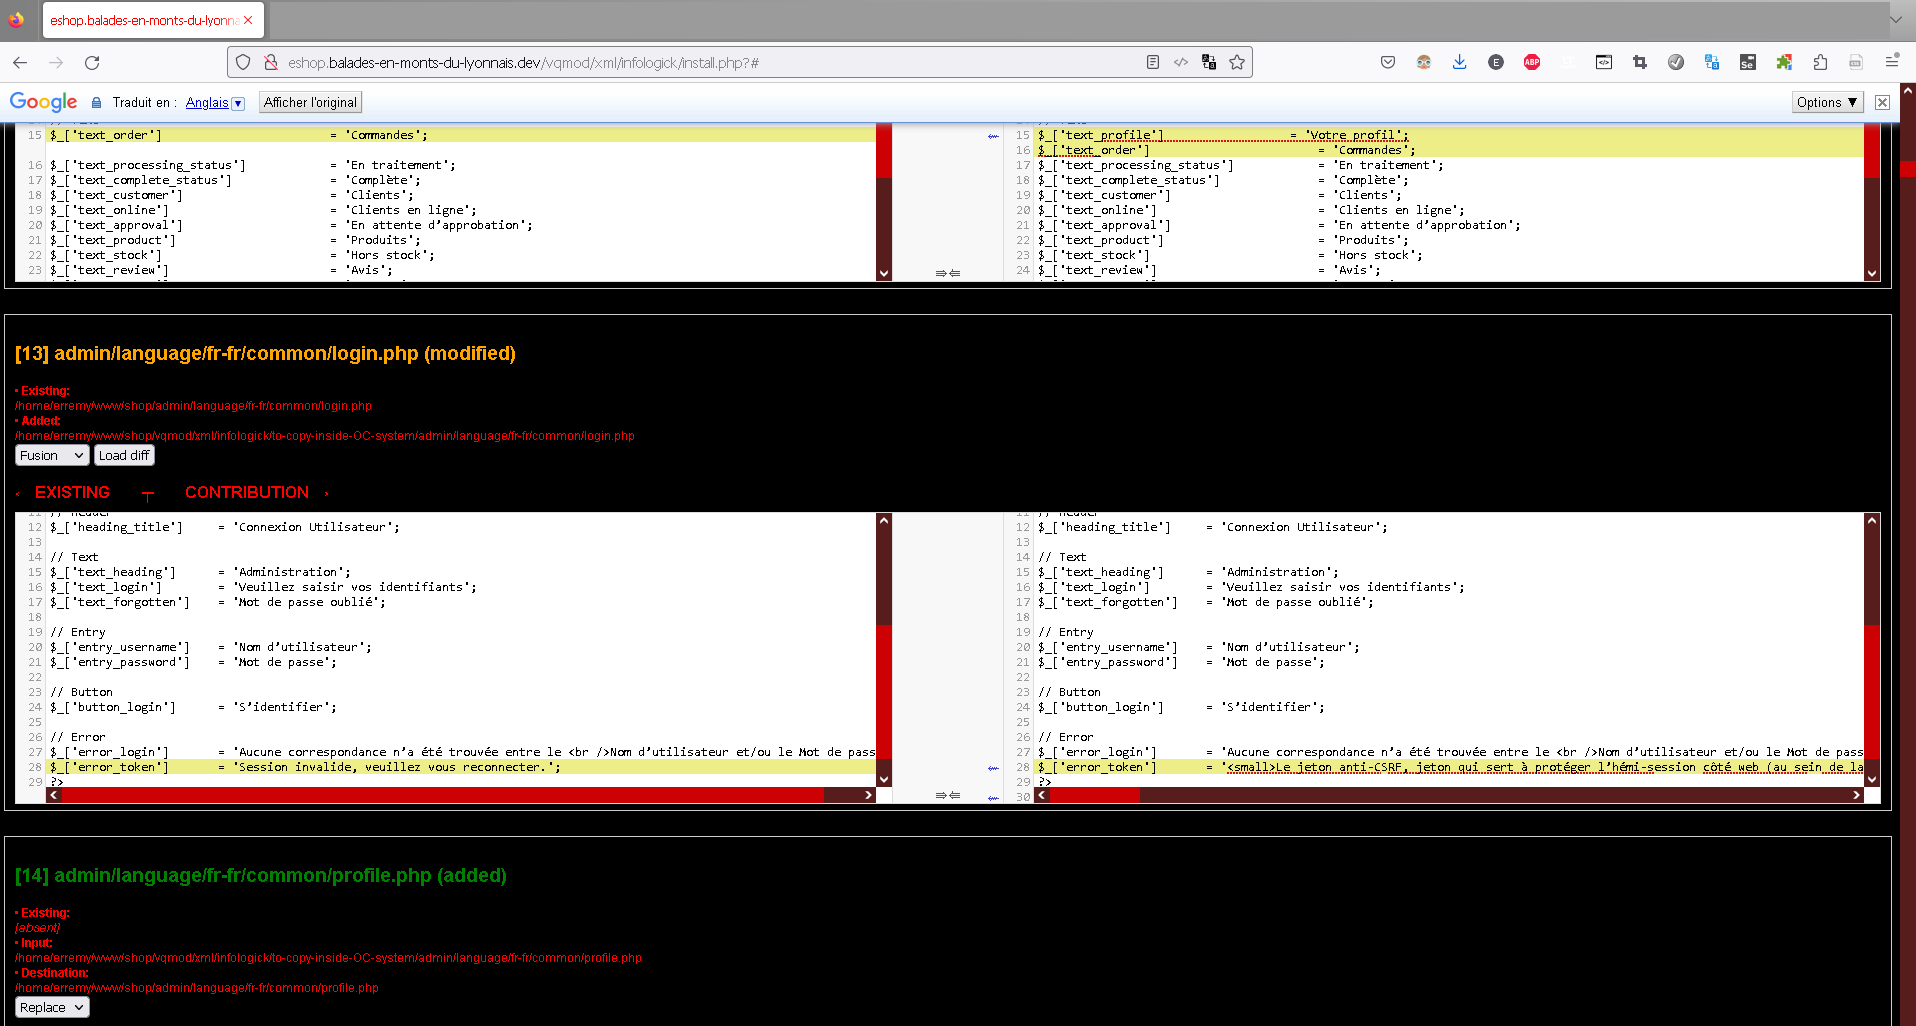
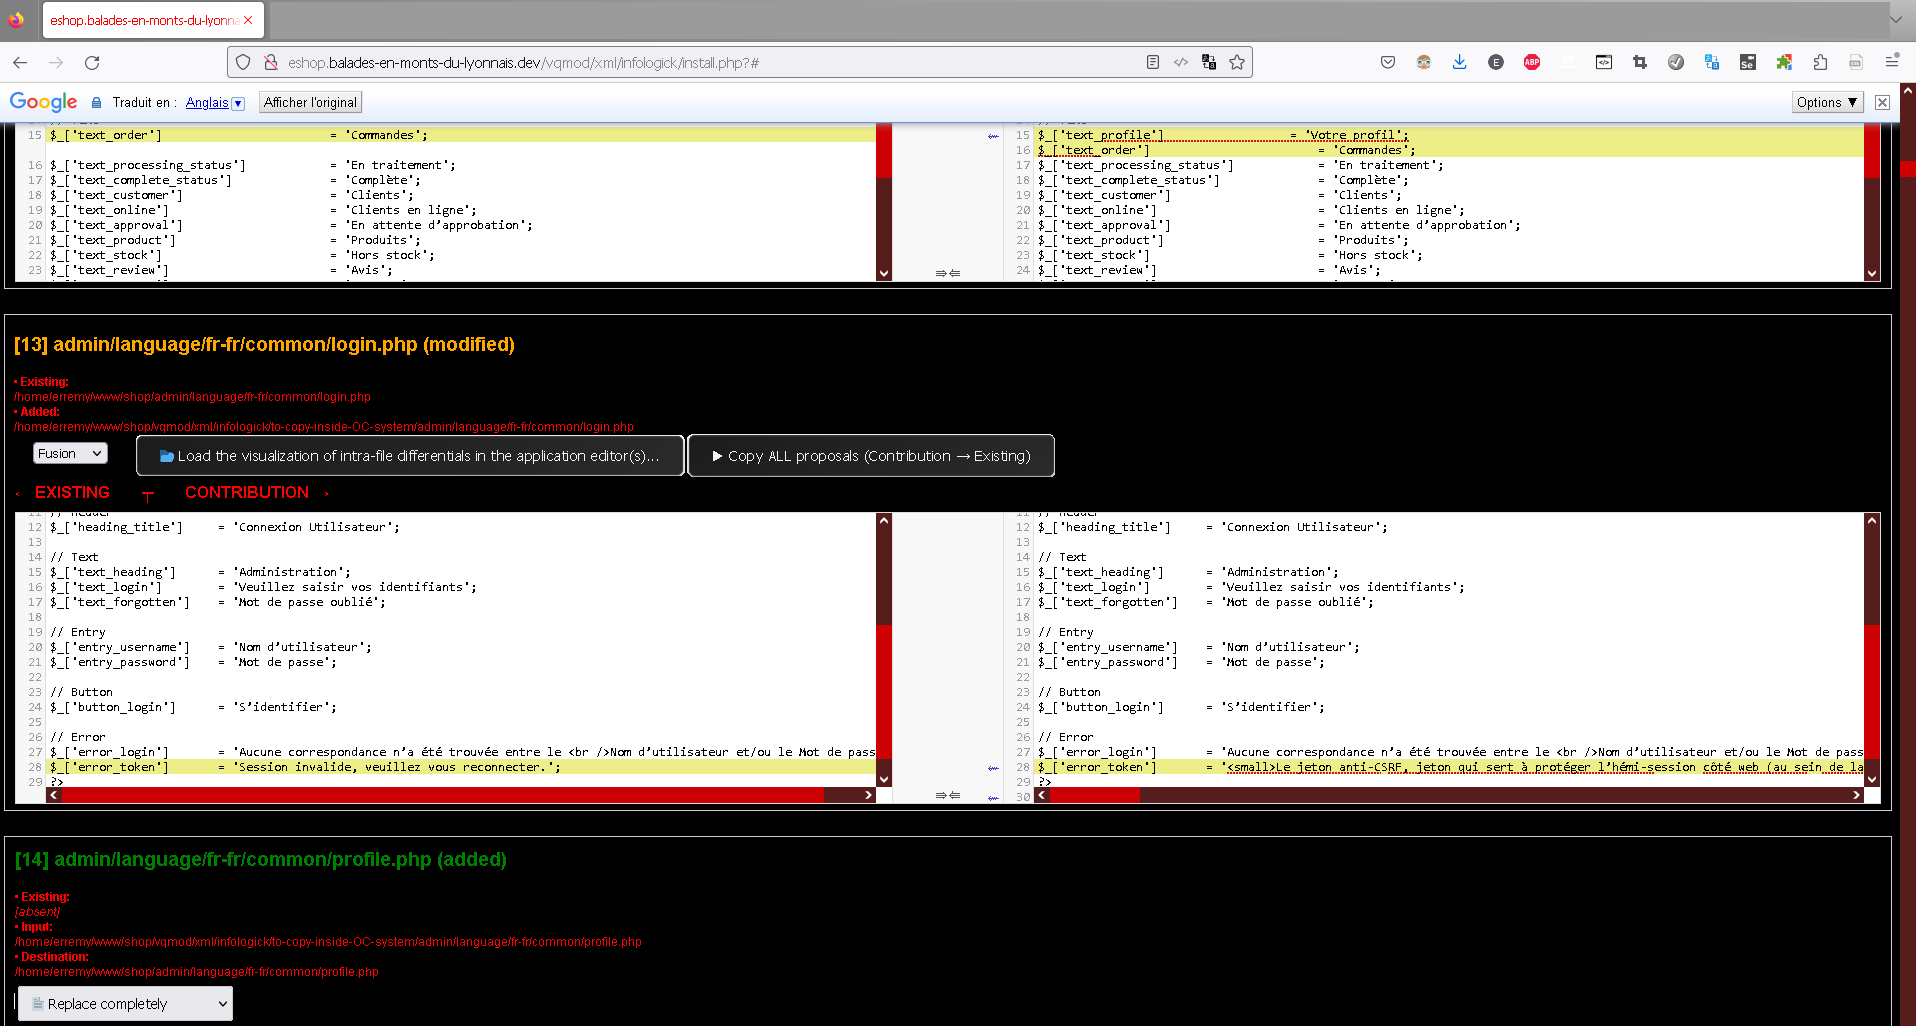
modif:
Actualisation de l'installateur de la partie VQMOD

Changed region(s): [[0.0, 0.3119, 0.5543, 0.4678], [0.0, 0.8109, 0.3387, 0.9981]]

diff --git a/docs/00-prerequisites/installVQMODpart/index.htm b/docs/00-prerequisites/installVQMODpart/index.htm
@@ -57,8 +57,13 @@
 			</p><br>
 
 			<p align="center">
-				<img src="./indexFiles/install1VQMODpartAppplyOnBottom.png" width="68%" height="350px" /><br>
+				<img src="./indexFiles/install1VQMODpartApplyOnBottom.png" width="68%" height="350px" /><br>
 				<i>Illustration de l'installateur de la partie VQMOD: un bouton pour appliquer vos choix\sélections en une seule passe, est disponible en bas.</i>
+			</p><br>
+
+			<p align="center">
+				<img src="./indexFiles/install1VQMODpartEndingWithSuccess.png" width="68%" height="350px" /><br>
+				<i>Illustration de l'installateur de la partie VQMOD: la cohérence de vos choix, quand elle appliquée avec succès, est listée en retour d'information une fois terminée.</i>
 			</p><br>
 
 		<br><br>
